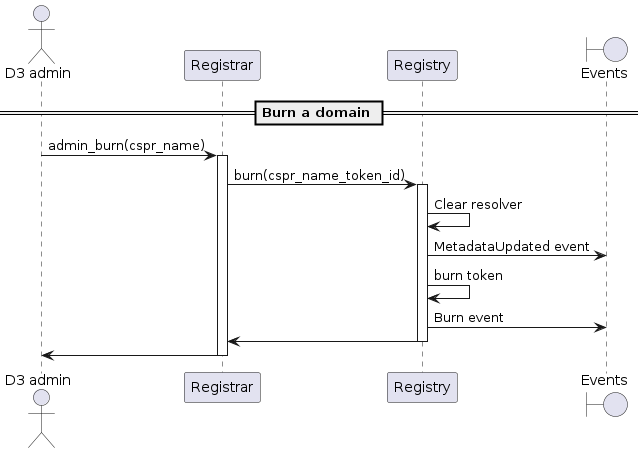
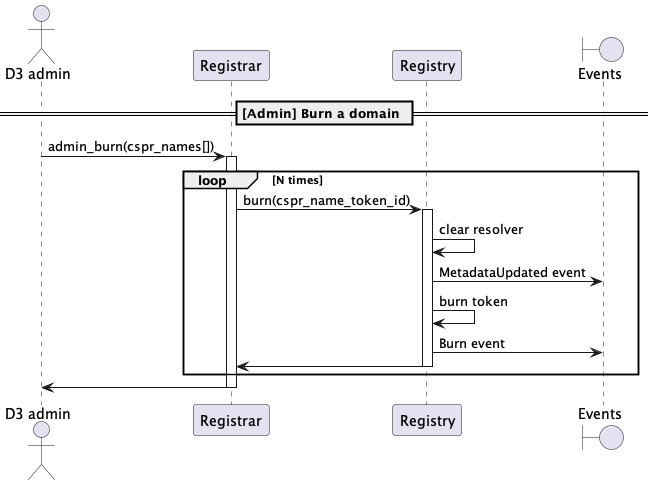
modifications after gathering feedback from D3.

diff --git a/docs/sequence-diagrams/Admin functions.md b/docs/sequence-diagrams/Admin functions.md
@@ -4,7 +4,7 @@
 
 ### Whitelist registrar contract
 
-> As the Registry contract admin, I should be able to whitelist a Registrar contract, so that it can min new *cspr name 
+> As the Registry contract admin, I should be able to whitelist a Registrar contract, so that it can mint new *cspr name 
 > tokens in the registry.
 > 
 ![](puml/whitelist-registrar.png)
@@ -12,29 +12,53 @@
 
 _used also to delist a registrar_
 
+### Set transfer filter contract
+
+> As the Registry contract admin, I should be able to set a transfer filter contract, 
+> so that its `can_transfer` method is called before a transfer can be executed.
+
+![](puml/set-transfer-filter.png)
+[🔗](puml/set-transfer-filter.puml)
 ## Registrar admin functions
 
-### Expire a domain
+### Whitelist a controller contract or admin address
 
-> As the registrar contract, I should burn expired tokens upon request.
+> As a Registrar admin, I should be able to whitelist a controller contract or admin account address,
+> so that they can mint and renew cspr name tokens, and call admin contract methods.
+
+![](puml/whitelist-controller.png)
+[🔗](puml/whitelist-controller.puml)
+
+### Set grace period time span
+
+> As a registrar admin, I should be able to set the duration of the grace period.
+
+![](puml/set-grace-period.png)
+[🔗](puml/set-grace-period.puml)
+
+### Expire domains
+
+> As the registrar contract, I should burn expired tokens in batches upon request.
 
 ![](puml/expire-domain.png)
 [🔗](puml/expire-domain.puml)
 
-### Burn a domain
 
-> As a D3 admin, I should be able to burn a cspr name token.
+### Transfer domains
+
+> As a D3 admin, I should be able to transfer a batch of cspr name tokens.
+
+![](puml/admin-transfer-domain.png)
+[🔗](puml/admin-transfer-domain.puml)
+
+### Burn domains
+
+> As a D3 admin, I should be able to burn a batch of cspr name tokens.
 
 ![](puml/burn-domain.png)
 [🔗](puml/burn-domain.puml)
 
-### Whitelist a controller contract
 
-> As a Registrar admin, I should be able to whitelist a controller contract, 
-> so that it can mint and renew cspr name tokens.
-
-![](puml/whitelist-controller.png)
-[🔗](puml/whitelist-controller.puml)
 
 _used also to delist a controller._
 

diff --git a/docs/sequence-diagrams/Secondary-sale market.md b/docs/sequence-diagrams/Secondary-sale market.md
@@ -2,6 +2,8 @@
 
 ## D3 Marketplace
 
+_These flows are valid also for CSPR.market and other marketplaces._
+
 ### List a *cspr name in the D3 Marketplace
 
 > As a *cspr name owner, I should be able to list my token in the D3 marketplace
@@ -9,16 +11,9 @@
 ![](puml/d3-marketplace-list.png)
 [🔗](puml/d3-marketplace-list.puml)
 
-### Buy a *cspr name from D3 Marketplace with fiat payment
-
-> As a user, I should be able to buy a *cspr name listed in the D3 marketplace with a fiat payment
-
-![](puml/d3-marketplace-buy-fiat.png)
-[🔗](puml/d3-marketplace-buy-fiat.puml)
-
 ### Buy a *cspr name from D3 Marketplace with CSPR token payment
 
-> As a user, I should be able to buy a *cspr name listed in the D3 marketplace with a CSPR token payment
+> As a user, I should be able to buy one or more *cspr name listed in the D3 marketplace with a CSPR token payment
 
 ![](puml/d3-marketplace-buy-cspr-token.png)
 [🔗](puml/d3-marketplace-buy-cspr-token.puml)

diff --git a/docs/sequence-diagrams/Buy a cspr name.md b/docs/sequence-diagrams/Buy a cspr name.md
@@ -12,7 +12,6 @@
 ![](puml/offchain-multiple-purchase.png)
 [🔗](puml/offchain-multiple-purchase.puml)
 
-
 ## Buy with CSPR token
 
 > As a user, I must be able to buy a *cspr name with CSPR token on D3 web application 
